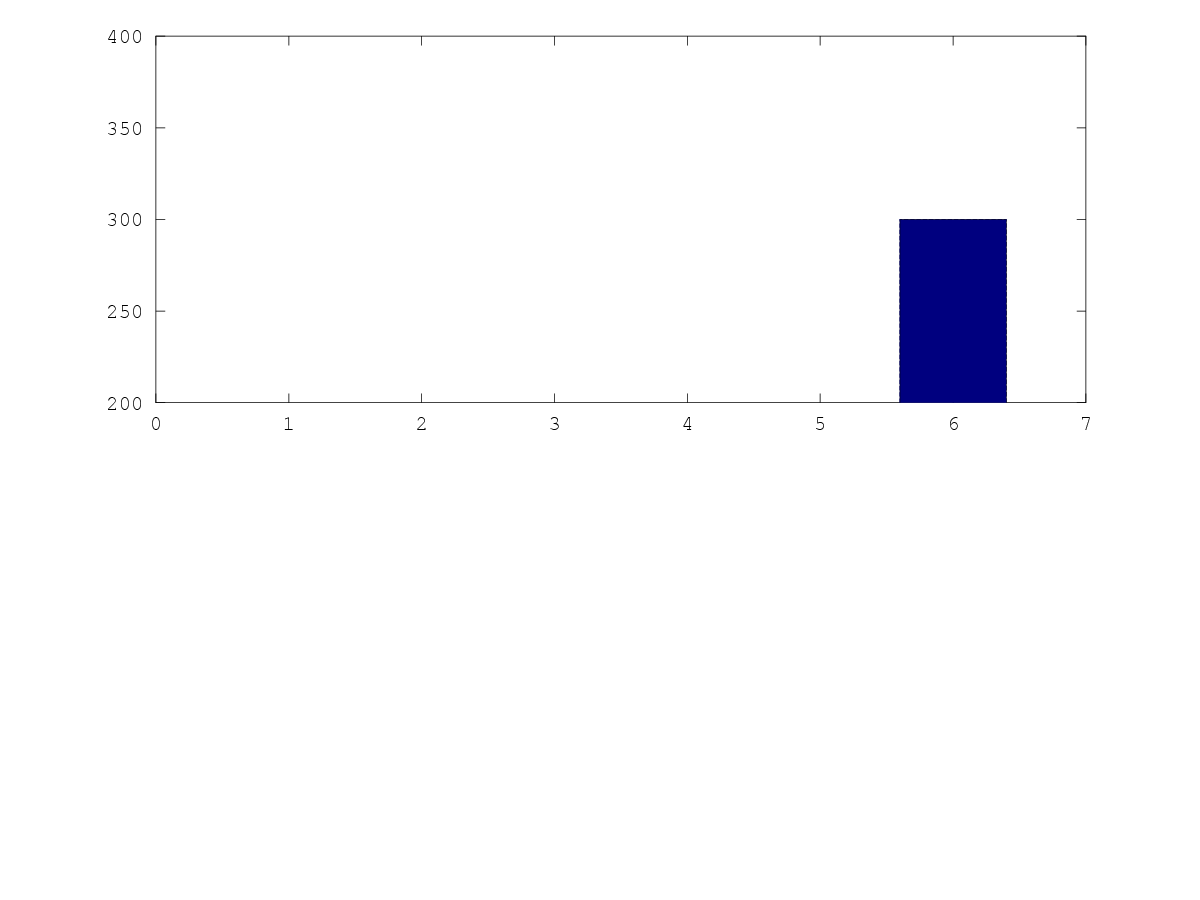
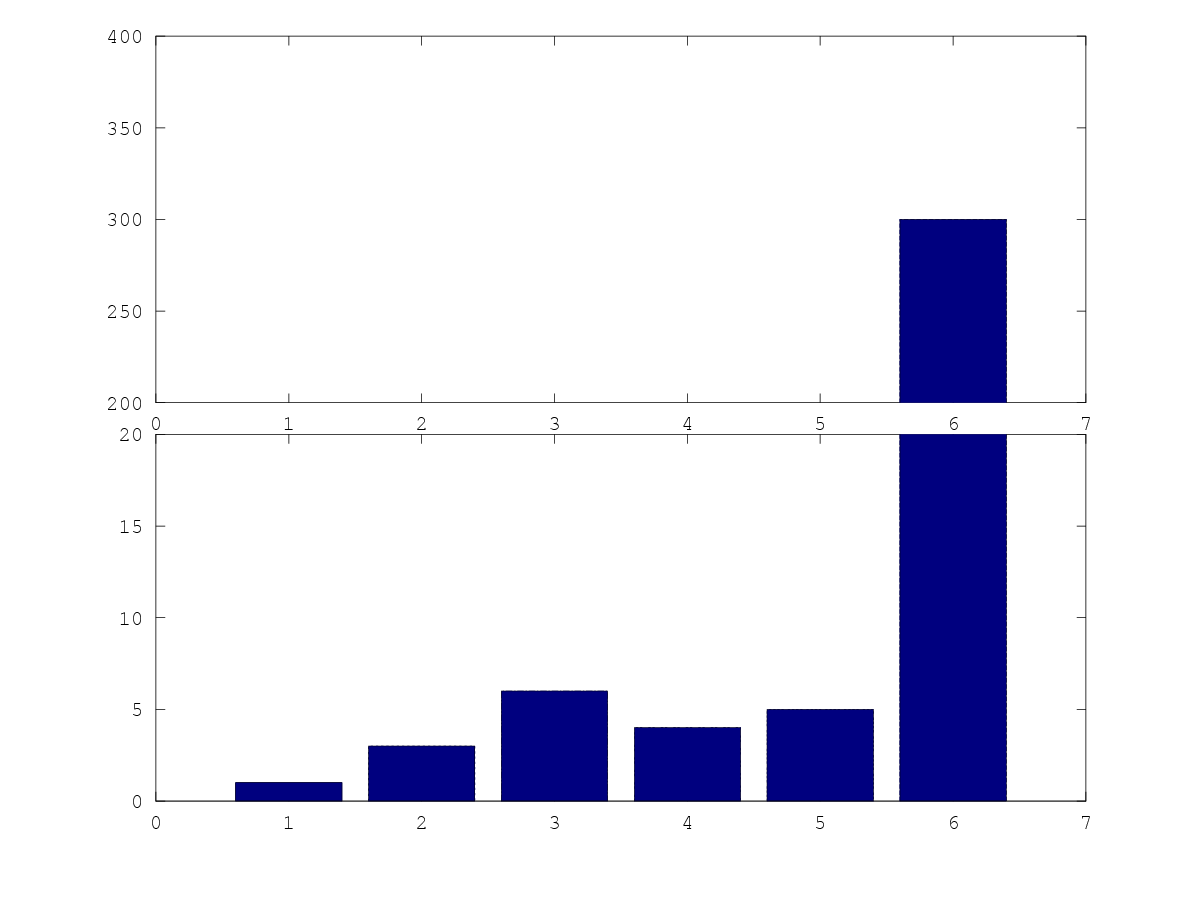
break_axis.m

Changed region(s): [[0.185, 0.4667, 0.8633, 0.9022]]

diff --git a/break_axis.m b/break_axis.m
@@ -16,11 +16,10 @@ delete(gcf);
 
 % create axis1
 %a1=axes('position',[p0(1) p0(2) p0(3)/2-.025 p0(4)]);
-%a1=axes('position',[p0(1) p0(2) p0(3) p0(4)/2]);
-%a2=axes('position',[p0(1) p0(4)/2+.145 p0(3) p0(4)/2])
+a1=axes('position',[p0(1) p0(2) p0(3) p0(4)/2]);
 %barh(a);
-%bar(a);
-%set(a1,'ylim',ylim1);
+bar(a);
+set(a1,'ylim',ylim1);
 %set(a2,'xlim',xlim,'ylim',ylim2);
 %set(a2,'xtick',[]);
 %box off;
